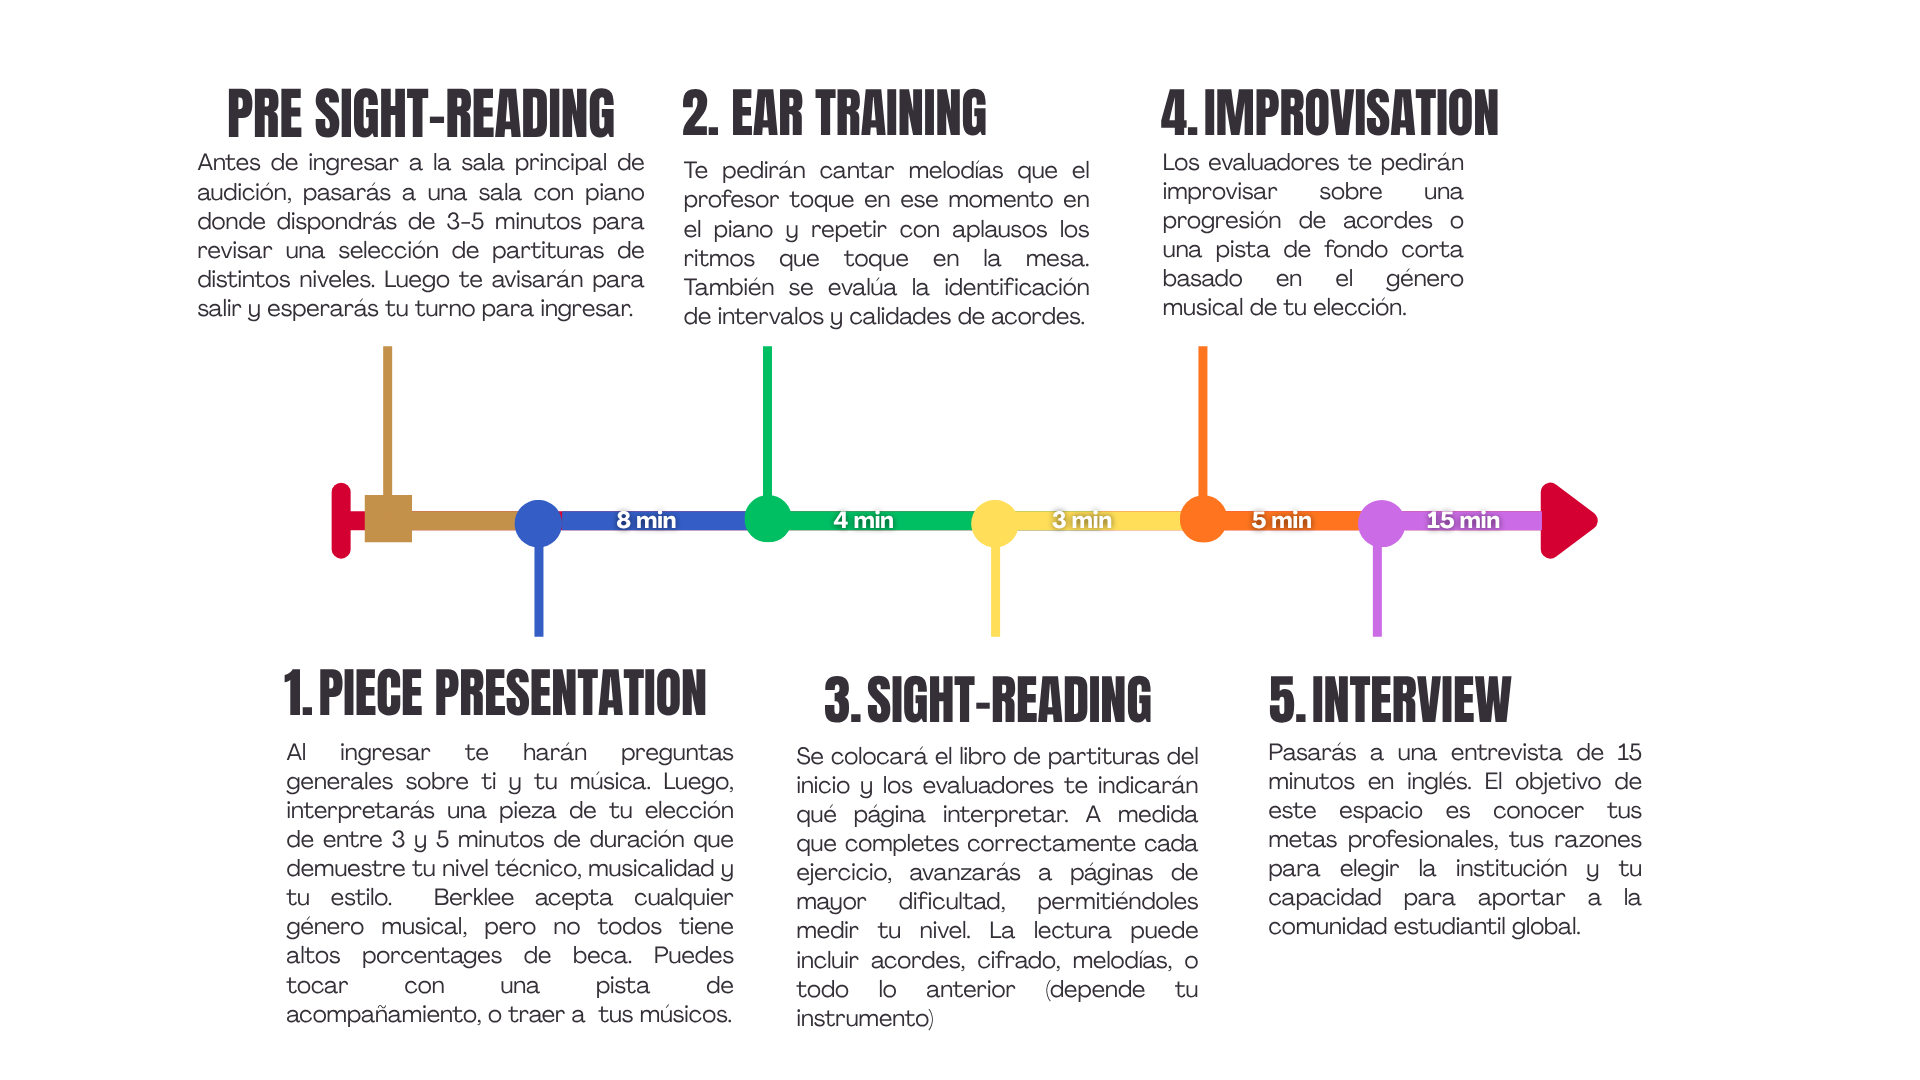
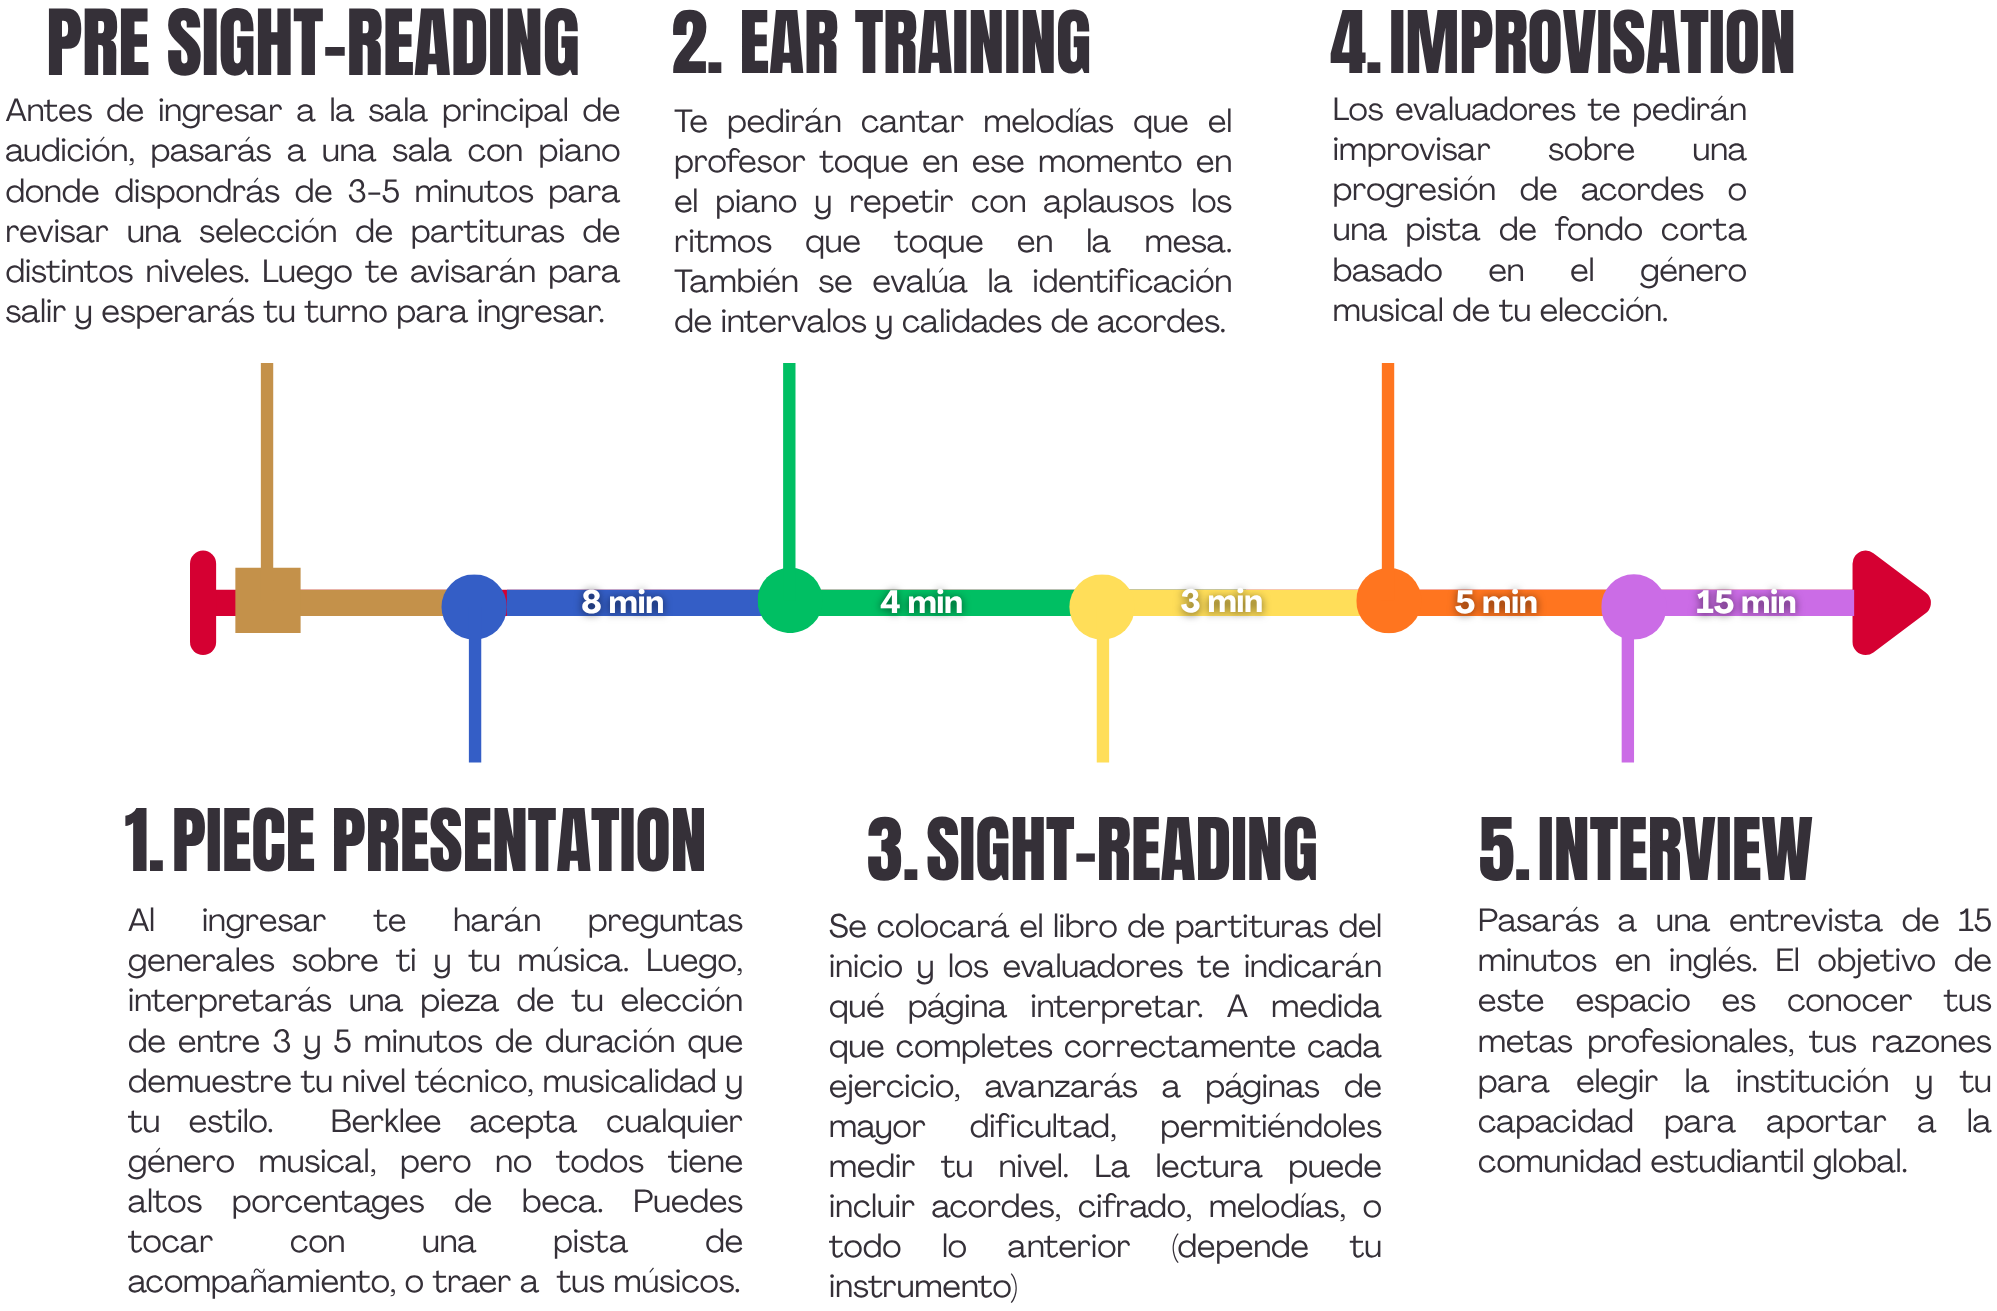
refactoring home page emn

Changed region(s): [[0.0, 0.0, 0.9688, 0.5806], [0.4062, 0.6111, 1.0, 1.0], [0.0625, 0.6111, 0.375, 1.0]]

diff --git a/_layouts/emn/index.html b/_layouts/emn/index.html
@@ -28,7 +28,7 @@
           </div>
         </div>
         <a href="https://zareenterprises.github.io/feedback" class="emn-nav__link ">Obtén Feedback</a>
-        <a href="https://academy.emnlatam.com/" class="emn-nav__link emn-nav__link--external" target="_blank" rel="noopener">Nosotros</a>
+        <a href="https://academy.emnlatam.com/" class="emn-nav__link" target="_blank" rel="noopener">Nosotros</a>
       </nav>
     </div>
   </header>

diff --git a/assets/css/emn.css b/assets/css/emn.css
@@ -239,14 +239,6 @@
   border-radius: 2px;
 }
 
-.emn-landing .emn-nav__link--external {
-  color: var(--gray-500);
-}
-
-.emn-landing .emn-nav__link--external:hover {
-  color: var(--gray-700);
-}
-
 /* Mobile nav */
 @media (max-width: 640px) {
   .emn-landing .emn-header__inner {
